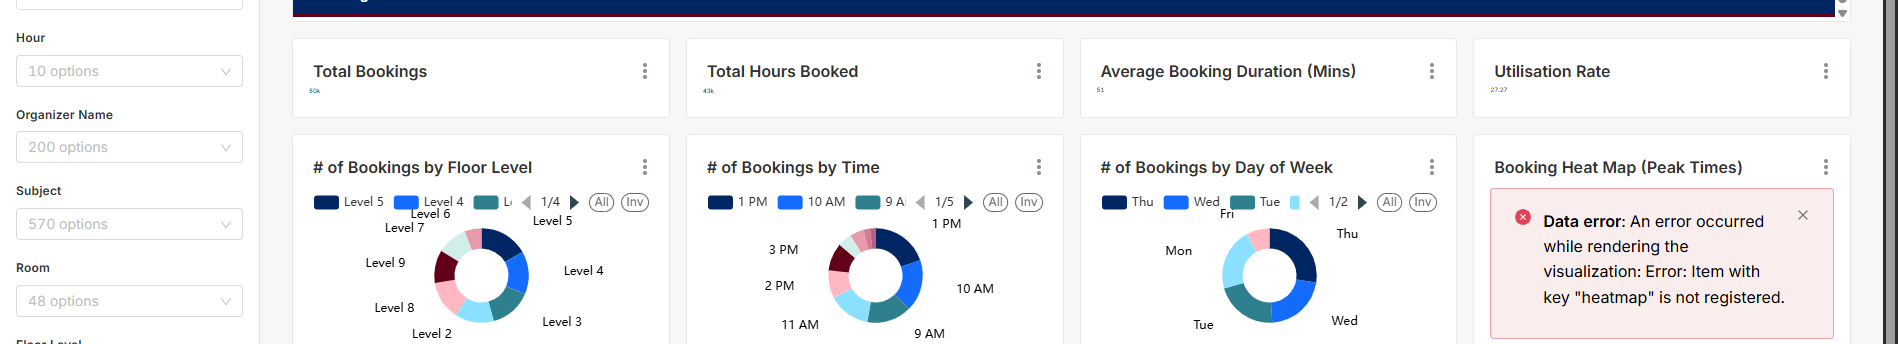
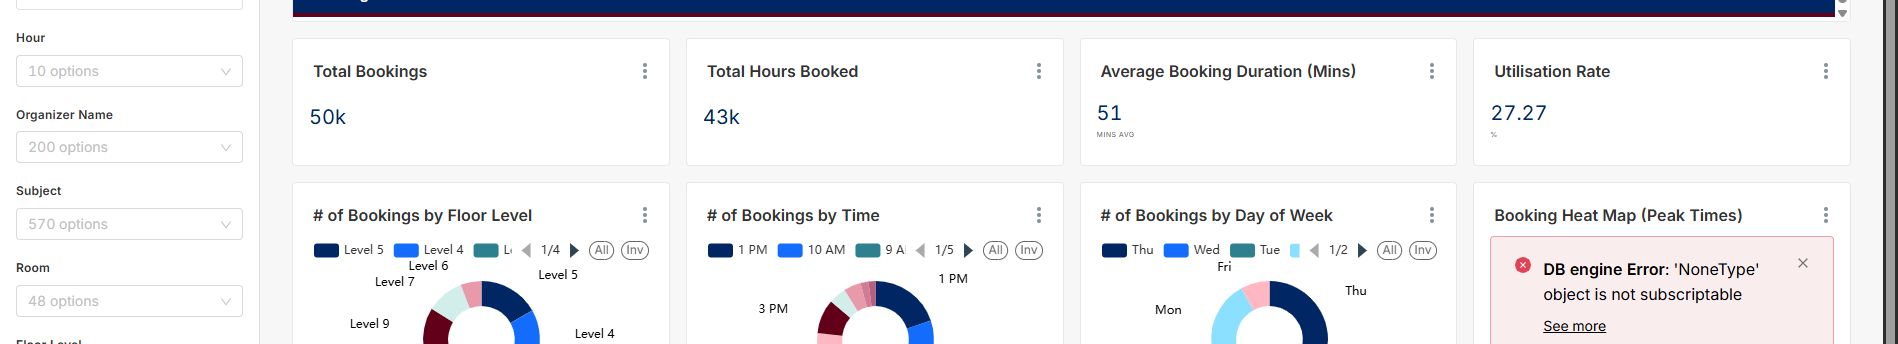
fix: heatmap data error, remove UtilRoom chart, increase chart heights
- Heatmap: fresh params rebuild with datasource=8__table, schemeReds, legacy viz_type
- Layout: removed Utilisation Rate by Room Name row (no real estate)
- KPI height 10->16, donut/bar height 28->32, timeseries 20->28
- Layout now 6 rows: header + KPI + donuts/heatmap + bars + timeseries + footer
- Add fix_heatmap.py utility script
- 15/15 meeting tests passing

diff --git a/scripts/fix_heatmap.py b/scripts/fix_heatmap.py
@@ -1,0 +1,75 @@
+import sys
+import os
+import json
+sys.path.insert(0, os.path.join(os.path.dirname(__file__), ".."))
+from scripts.superset_client import api_get, api_put
+
+
+def get_dashboard_id():
+    for d in api_get("/api/v1/dashboard/").get("result", []):
+        if "Meeting" in d.get("dashboard_title", ""):
+            return d["id"]
+    raise RuntimeError("Meeting dashboard not found")
+
+
+def get_heatmap_chart(dash_id):
+    charts = api_get(f"/api/v1/dashboard/{dash_id}/charts").get("result", [])
+    for ch in charts:
+        if "heat" in ch.get("slice_name", "").lower():
+            return ch
+    raise RuntimeError("Heatmap chart not found")
+
+
+def main():
+    dash_id = get_dashboard_id()
+    ch = get_heatmap_chart(dash_id)
+    chart_id = ch["id"]
+
+    detail = api_get(f"/api/v1/chart/{chart_id}")
+    result = detail.get("result", {})
+    old_params = json.loads(result.get("params", "{}"))
+
+    datasource = old_params.get("datasource", "")
+    datasource_id = result.get("datasource_id") or old_params.get("datasource_id")
+
+    fresh_params = {
+        "viz_type": "heatmap",
+        "datasource": datasource,
+        "all_columns_x": "day_of_week",
+        "all_columns_y": "hour_ampm",
+        "metric": {
+            "aggregate": "COUNT",
+            "column": None,
+            "expressionType": "SIMPLE",
+            "label": "COUNT(*)",
+            "optionName": "metric_count",
+        },
+        "linear_color_scheme": "schemeReds",
+        "normalize_across": "heatmap",
+        "xscale_interval": 1,
+        "yscale_interval": 1,
+        "left_margin": "auto",
+        "bottom_margin": "auto",
+        "show_legend": True,
+        "show_values": False,
+        "sort_x_axis": "alpha_asc",
+        "sort_y_axis": "alpha_asc",
+        "adhoc_filters": [],
+        "row_limit": 10000,
+    }
+
+    payload = {
+        "slice_name": "Booking Heat Map (Peak Times)",
+        "viz_type": "heatmap",
+        "params": json.dumps(fresh_params),
+    }
+    if datasource_id:
+        payload["datasource_id"] = datasource_id
+        payload["datasource_type"] = "table"
+
+    api_put(f"/api/v1/chart/{chart_id}", payload)
+    print(f"Heatmap rebuilt: id={chart_id}, datasource={datasource}")
+
+
+if __name__ == "__main__":
+    main()

diff --git a/scripts/update_meeting_layout.py b/scripts/update_meeting_layout.py
@@ -157,7 +157,7 @@ def build_position_json(charts):
 
     row1 = []
     for i, ch in enumerate(kpis[:4]):
-        eid, blk = chart_block(f"kpi{i+1}", ch, 3, 10)
+        eid, blk = chart_block(f"kpi{i+1}", ch, 3, 16)
         positions[eid] = blk
         row1.append(eid)
     if row1:
@@ -166,11 +166,11 @@ def build_position_json(charts):
 
     row2 = []
     for i, ch in enumerate(donuts[:3]):
-        eid, blk = chart_block(f"donut{i+1}", ch, 3, 28)
+        eid, blk = chart_block(f"donut{i+1}", ch, 3, 32)
         positions[eid] = blk
         row2.append(eid)
     if heatmap:
-        eid, blk = chart_block("hmap", heatmap, 3, 28)
+        eid, blk = chart_block("hmap", heatmap, 3, 32)
         positions[eid] = blk
         row2.append(eid)
     if row2:
@@ -180,7 +180,7 @@ def build_position_json(charts):
     row3 = []
     for key, ch, w in [("floorbar", floor_bar, 4), ("combo", combo, 4), ("roombar", room_bar, 4)]:
         if ch:
-            eid, blk = chart_block(key, ch, w, 28)
+            eid, blk = chart_block(key, ch, w, 32)
             positions[eid] = blk
             row3.append(eid)
     if row3:
@@ -188,16 +188,10 @@ def build_position_json(charts):
         grid_rows.append("ROW-3")
 
     if timeseries:
-        eid, blk = chart_block("ts", timeseries, 12, 20)
+        eid, blk = chart_block("ts", timeseries, 12, 28)
         positions[eid] = blk
         positions["ROW-4"] = row_block("ROW-4", [eid])
         grid_rows.append("ROW-4")
-
-    if util_room:
-        eid, blk = chart_block("utilroom", util_room, 12, 28)
-        positions[eid] = blk
-        positions["ROW-5"] = row_block("ROW-5", [eid])
-        grid_rows.append("ROW-5")
 
     positions["MARKDOWN-footer"] = markdown_block("MARKDOWN-footer", FOOTER_HTML, 12, 6)
     positions["ROW-footer"] = row_block("ROW-footer", ["MARKDOWN-footer"])
